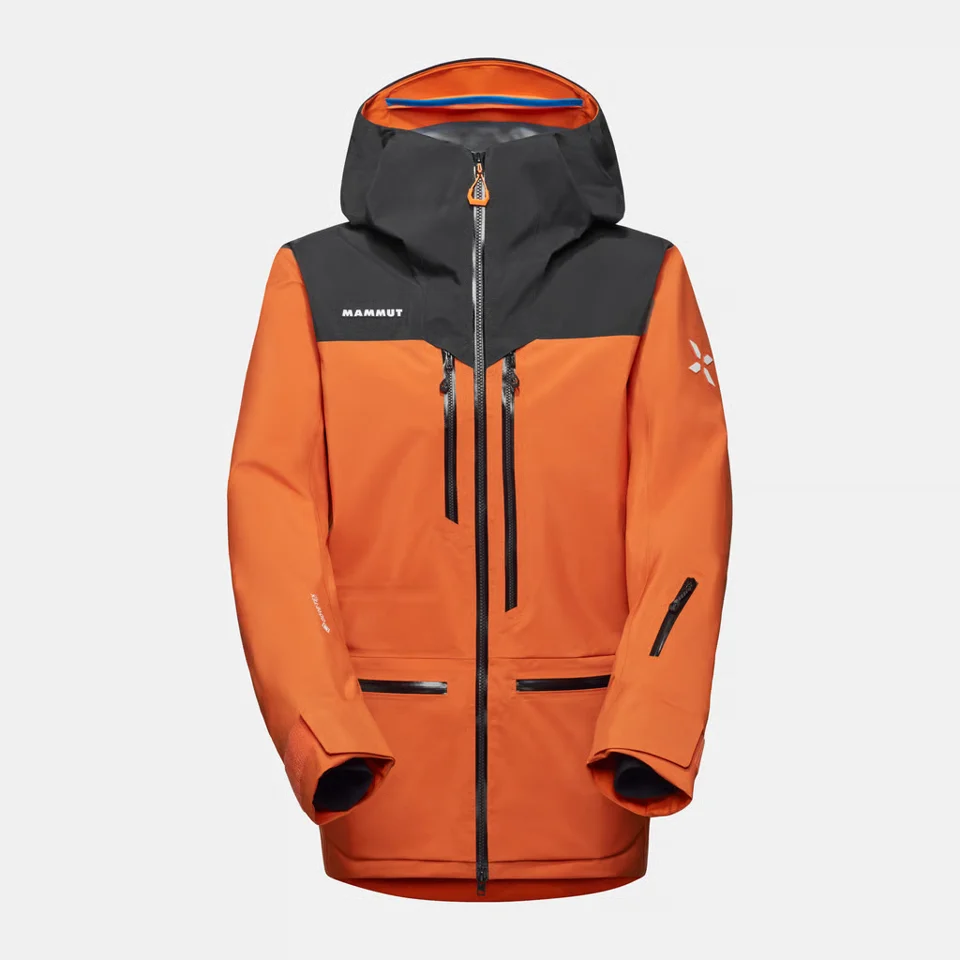
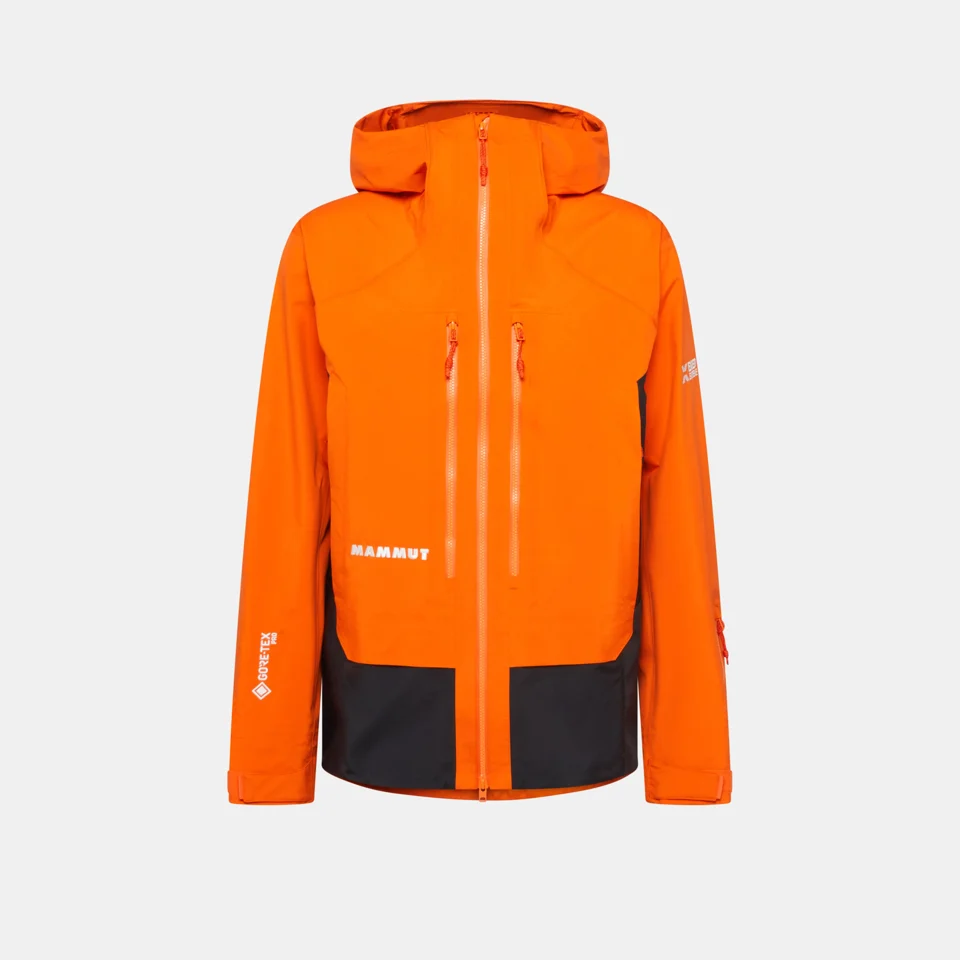
Replace jacket with Eiger Free Pro HS Men 1010-33030

diff --git a/index.html b/index.html
@@ -13,7 +13,7 @@
 <section class="section brief-section" id="inspiracje"><div class="label"><span>05 / INSPIRACJE</span><span>MAMMUT / FREERIDE</span></div><div class="carousel-heading"><h2 class="reveal">Inspiracje.</h2><div class="carousel-controls"><button type="button" class="carousel-prev" aria-label="Poprzedni film" aria-controls="inspiration-track"><svg viewBox="0 0 24 24" aria-hidden="true"><path d="M20 12H4m7-7-7 7 7 7"/></svg></button><button type="button" class="carousel-next" aria-label="Następny film" aria-controls="inspiration-track"><svg viewBox="0 0 24 24" aria-hidden="true"><path d="M4 12h16m-7-7 7 7-7 7"/></svg></button></div></div><div class="video-carousel" id="inspiration-track" role="region" aria-roledescription="karuzela" aria-label="Filmy inspiracyjne — przewijaj w poziomie" tabindex="0"><article class="video-card" aria-label="Inspiracja 1 z 5"><video controls playsinline preload="metadata" aria-label="Odtwórz inspirację 1"><source src="assets/inspiration-01.mp4#t=0.1" type="video/mp4">Twoja przeglądarka nie obsługuje wideo. <a href="https://www.instagram.com/p/DWY4Ww8jF6E/">Obejrzyj na Instagramie</a>.</video><div class="video-source"><span>01 / ŹRÓDŁO</span><a href="https://www.instagram.com/p/DWY4Ww8jF6E/" target="_blank" rel="noopener noreferrer">Instagram / DWY4Ww8jF6E <svg class="icon-arrow" viewBox="0 0 24 24" aria-hidden="true"><path d="M6 18 18 6M6 6h12v12"/></svg></a></div></article><article class="video-card" aria-label="Inspiracja 2 z 5"><video controls playsinline preload="metadata" aria-label="Odtwórz inspirację 2"><source src="assets/inspiration-02.mp4#t=0.1" type="video/mp4">Twoja przeglądarka nie obsługuje wideo. <a href="https://www.instagram.com/p/DSAsUp9jEHh/">Obejrzyj na Instagramie</a>.</video><div class="video-source"><span>02 / ŹRÓDŁO</span><a href="https://www.instagram.com/p/DSAsUp9jEHh/" target="_blank" rel="noopener noreferrer">Instagram / DSAsUp9jEHh <svg class="icon-arrow" viewBox="0 0 24 24" aria-hidden="true"><path d="M6 18 18 6M6 6h12v12"/></svg></a></div></article><article class="video-card" aria-label="Inspiracja 3 z 5"><video controls playsinline preload="metadata" aria-label="Odtwórz inspirację 3"><source src="assets/inspiration-03.mp4#t=0.1" type="video/mp4">Twoja przeglądarka nie obsługuje wideo. <a href="https://www.instagram.com/reel/DTsyqbiDLoi/">Obejrzyj na Instagramie</a>.</video><div class="video-source"><span>03 / ŹRÓDŁO</span><a href="https://www.instagram.com/reel/DTsyqbiDLoi/" target="_blank" rel="noopener noreferrer">Instagram / DTsyqbiDLoi <svg class="icon-arrow" viewBox="0 0 24 24" aria-hidden="true"><path d="M6 18 18 6M6 6h12v12"/></svg></a></div></article><article class="video-card" aria-label="Inspiracja 4 z 5"><video controls playsinline preload="metadata" aria-label="Odtwórz inspirację 4"><source src="assets/inspiration-04.mp4#t=0.1" type="video/mp4">Twoja przeglądarka nie obsługuje wideo. <a href="https://www.instagram.com/p/Ddo7TaxJoQa/">Obejrzyj na Instagramie</a>.</video><div class="video-source"><span>04 / ŹRÓDŁO</span><a href="https://www.instagram.com/p/Ddo7TaxJoQa/" target="_blank" rel="noopener noreferrer">Instagram / Ddo7TaxJoQa <svg class="icon-arrow" viewBox="0 0 24 24" aria-hidden="true"><path d="M6 18 18 6M6 6h12v12"/></svg></a></div></article><article class="video-card" aria-label="Inspiracja 5 z 5"><video controls playsinline preload="metadata" aria-label="Odtwórz inspirację 5"><source src="assets/inspiration-05.mp4#t=0.1" type="video/mp4">Twoja przeglądarka nie obsługuje wideo. <a href="https://www.instagram.com/p/Dd4DwOtoz-J/">Obejrzyj na Instagramie</a>.</video><div class="video-source"><span>05 / ŹRÓDŁO</span><a href="https://www.instagram.com/p/Dd4DwOtoz-J/" target="_blank" rel="noopener noreferrer">Instagram / Dd4DwOtoz-J <svg class="icon-arrow" viewBox="0 0 24 24" aria-hidden="true"><path d="M6 18 18 6M6 6h12v12"/></svg></a></div></article></div></section>
 <section class="section product-catalog" id="produkty"><div class="label"><span>06 / PRODUKTY DO WYBORU</span><span>MAMMUT / FREERIDE</span></div><div class="catalog-heading"><h2>Produkty<br><span>do wyboru.</span></h2><div><p>Odzież, akcesoria i sprzęt na Twój zimowy sezon. Warianty i rozmiary wybierzesz w formularzu.</p><a class="catalog-cta" href="https://docs.google.com/forms/d/e/1FAIpQLSc7xAqeWip8rUctuxmEA8HzDzGdVLfmUssL7iCDvz7OrumoTg/viewform" target="_blank" rel="noopener noreferrer">Wybierz swój zestaw <svg class="icon-arrow" viewBox="0 0 24 24" aria-hidden="true"><path d="M5 19 19 5M5 5h14v14"/></svg></a></div></div>
 <h3 class="catalog-group">01 / Odzież</h3><div class="product-grid">
-<article class="product-card"><div class="product-image"><img src="assets/product-01.webp" width="960" height="960" alt="Eiger Free Pro HS Hooded Jacket — Eiger orange-black" loading="lazy" decoding="async"></div><h4>Eiger Free Pro HS Hooded Jacket</h4><p>Eiger orange-black</p></article>
+<article class="product-card"><div class="product-image"><img src="assets/product-01.webp?v=1010-33030" width="960" height="960" alt="Eiger Free Pro HS Hooded Jacket Men — Eiger orange-black" loading="lazy" decoding="async"></div><h4>Eiger Free Pro HS Hooded Jacket Men</h4><p>Eiger orange-black</p><p style="margin-top:10px">Męska kurtka hardshell GORE-TEX PRO do freeride’u, zapewniająca ochronę przed wiatrem i wodą oraz swobodę ruchu.</p></article>
 <article class="product-card"><div class="product-image"><img src="assets/product-02.webp" width="960" height="960" alt="Eiger Free Pro HS Bib Pants — Eiger orange-black" loading="lazy" decoding="async"></div><h4>Eiger Free Pro HS Bib Pants</h4><p>Eiger orange-black</p></article>
 <article class="product-card"><div class="product-image"><img src="assets/product-03.webp" width="960" height="960" alt="Eiger Free Light IN Vest — Nebla" loading="lazy" decoding="async"></div><h4>Eiger Free Light IN Vest</h4><p>Nebla</p></article>
 <article class="product-card"><div class="product-image"><img src="assets/product-04.webp" width="960" height="960" alt="Eiger Free Light IN Vest — Black" loading="lazy" decoding="async"></div><h4>Eiger Free Light IN Vest</h4><p>Black</p></article>
